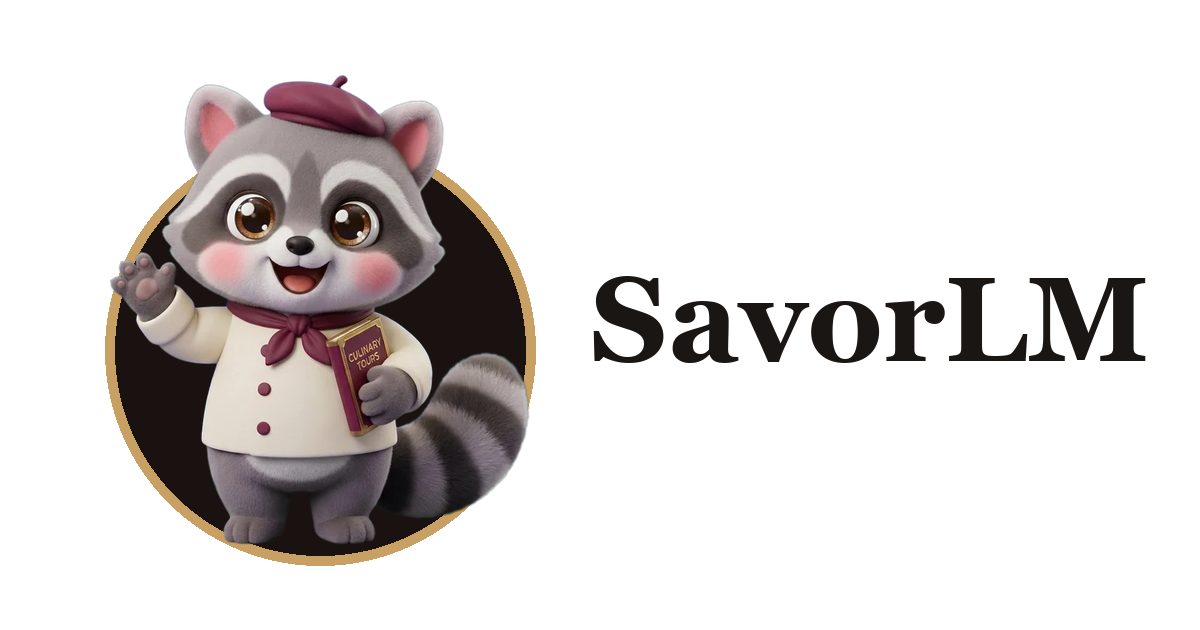
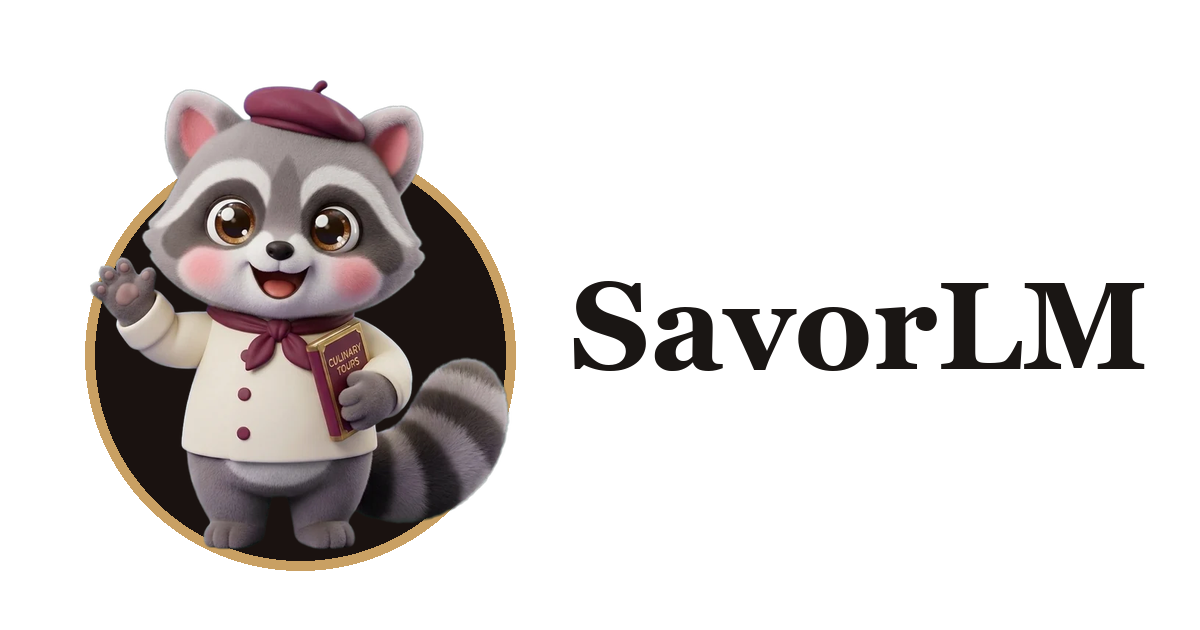
Photos and a spoken intro for every option, city link previews, 2-row ask box
- Options 2 to 5 get photos too: looked up by name + address on demand
  (Places photos only, cached), with thumbnails in the option rows
- Tapping an option makes Savvy introduce it (per-option intro)
- Each city URL has its own preview image, title and description
- The request box is a 2-row textarea (Enter sends, Shift+Enter newline)

Claude-Session: https://claude.ai/code/session_01MGsxGrBvBMeeqvs9iSWbpR

Changed region(s): [[0.0617, 0.1206, 0.9558, 0.9048]]

diff --git a/components/stop-card.tsx b/components/stop-card.tsx
@@ -2,7 +2,7 @@
 
 import { useState } from "react";
 import { Footprints, CarTaxiFront, MapPin, Phone, CalendarCheck, Star, ShieldCheck, Heart, ChevronRight } from "lucide-react";
-import type { Option, StopCard as Stop } from "@/lib/guide/scene";
+import { photoSrc, type Option, type StopCard as Stop } from "@/lib/guide/scene";
 
 export function Hop({ hop }: { hop: NonNullable<Stop["hop"]> }) {
   const Icon = hop.mode === "walk" ? Footprints : CarTaxiFront;
@@ -46,10 +46,11 @@ export function StopTicket({ stop, chosen, active, onSelect, onChoose }: { stop:
     <article className={`ticket rise overflow-hidden transition-[outline] ${active ? "outline-2 outline-offset-2 outline-gold" : ""}`}>
       <button type="button" onClick={onSelect} className="block w-full text-left" aria-label={`Show ${o.name} on the map`}>
         <div className="relative h-44 bg-sunk">
-          {o.placeId && !badPhoto[o.id] ? (
-            // Google-hosted photo via our redirect; nothing is stored.
+          {!badPhoto[o.id] ? (
+            // Google-hosted photo via our redirect (by place id, or looked up
+            // by name + address for the other options); nothing is stored.
             // eslint-disable-next-line @next/next/no-img-element
-            <img src={`/api/photo?pid=${encodeURIComponent(o.placeId)}`} alt="" loading="lazy" className="h-full w-full object-cover" onError={() => setBadPhoto((b) => ({ ...b, [o.id]: true }))} />
+            <img key={o.id} src={photoSrc(o)} alt="" loading="lazy" className="h-full w-full object-cover" onError={() => setBadPhoto((b) => ({ ...b, [o.id]: true }))} />
           ) : (
             <div className="grid h-full place-items-center bg-[radial-gradient(circle_at_50%_40%,#3a2a22,#1a1210)]">
               <MapPin className="size-10 text-gold-text" aria-hidden />
@@ -130,7 +131,13 @@ export function StopTicket({ stop, chosen, active, onSelect, onChoose }: { stop:
               {others.map(({ x, j }) => (
                 <li key={x.id} className="border-b border-line last:border-0">
                   <button type="button" onClick={() => onChoose(j)} className="flex w-full items-center gap-3 py-2.5 text-left transition hover:bg-[rgba(201,160,99,0.08)]" aria-label={`Make ${x.name} the pick for ${stop.role}`}>
-                    <span className="grid size-8 shrink-0 place-items-center rounded-full border-2 border-gold font-extrabold text-gold-text">{j + 1}</span>
+                    <span className="relative size-14 shrink-0 overflow-hidden rounded-xl border-2 border-gold bg-sunk">
+                      {!badPhoto[x.id] && (
+                        // eslint-disable-next-line @next/next/no-img-element
+                        <img src={photoSrc(x, 160)} alt="" loading="lazy" className="h-full w-full object-cover" onError={() => setBadPhoto((b) => ({ ...b, [x.id]: true }))} />
+                      )}
+                      <span className="absolute bottom-0.5 left-0.5 grid size-6 place-items-center rounded-full bg-[#120d0b] text-[0.8rem] font-extrabold text-[#f3d9ad]">{j + 1}</span>
+                    </span>
                     <span className="min-w-0 flex-1">
                       <span className="block font-display text-[1.1rem] font-bold leading-tight">{x.name}</span>
                       <span className="block text-[0.92rem] leading-snug text-ink-2">

diff --git a/lib/server/guide.ts b/lib/server/guide.ts
@@ -242,7 +242,7 @@ function rank(cands: Candidate[], checks: CheckId[]) {
 
 // ---- pick + narrate --------------------------------------------------------
 
-type PickOpt = { key: string; name: string; why: string; open_now: "open" | "closed" | "unknown"; hours: string; rating: string; phone: string; address: string; cuisine: string; price: string; source_urls: string[] };
+type PickOpt = { key: string; name: string; why: string; intro: string; open_now: "open" | "closed" | "unknown"; hours: string; rating: string; phone: string; address: string; cuisine: string; price: string; source_urls: string[] };
 type StopPick = { stop: number; line: string; options: PickOpt[] };
 type PickResult = { stops: StopPick[]; outro: string; title: string };
 
@@ -250,6 +250,7 @@ const OPT_PROPS = {
   key: { type: "STRING" },
   name: { type: "STRING" },
   why: { type: "STRING" },
+  intro: { type: "STRING" },
   open_now: { type: "STRING", enum: ["open", "closed", "unknown"] },
   hours: { type: "STRING" },
   rating: { type: "STRING" },
@@ -296,6 +297,7 @@ It is now ${nowIn(tz)} in ${cityName}.
 options: rank the candidates by key, best first: fit to the craving, budget and occasion first; then the user's checks (higher P(yes) is better); then how many independent sites named it (the city's favorites). Prefer places the evidence shows are open at the relevant time. Return 3 to 5 options when that many candidates fit (fewer only if the rest clearly don't fit). Each key at most once.
 line: what you say on arrival, walking the user through the TOP THREE options in order, max 65 words, spoken and natural, first person, like a friend who knows the city: lead with the first and why it wins, then the second and third in a phrase each ("If the line's too long, X is close by for ...; or Y for ..."). Use one concrete detail per place only if it is in the evidence. If 2 or more sites named a place you may call it a local favorite. Never invent dishes, prices or hours. ${NO_AWARDS} Never use an em-dash. No emoji.
 why (each option): max 14 words on what makes it great for this request, from the evidence. Same rules.
+intro (each option): what you would say if the user taps this option, max 30 words, spoken, first person, about this place alone (what it is, one detail from the evidence, and today's hours if known). Same rules.
 name: the venue's proper name (fix page-title noise).
 open_now: "open" or "closed" only if the evidence clearly states today's hours or its status now, else "unknown". hours: today's hours as stated, or "". rating: as stated with the review site the page names ("4.6 Google", "4.5 Yelp"), else ""; never a search engine or this app. phone, address: as stated, or "". cuisine: 1 to 3 words ("Texas barbecue"). price: "$" to "$$$$" if the evidence implies it, else "".
 source_urls: up to 2 URLs from that candidate's evidence that support what you said.
@@ -343,6 +345,7 @@ async function toOption(c: Candidate, pk: PickOpt | undefined, near: LatLng | nu
     id: keyOf(name, cityId),
     name,
     why: pk?.why ?? "",
+    intro: pk?.intro || `${name}${pk?.why ? `: ${pk.why.replace(/\.$/, "")}` : ""}.`,
     mentions: c.mentions,
     praisedBy: c.domains.slice(0, 6),
     cuisine: pk?.cuisine ?? "",

diff --git a/lib/server/places.ts b/lib/server/places.ts
@@ -31,21 +31,45 @@ export async function locate(text: string, near?: { lat: number; lng: number }):
   }).catch((e) => (console.warn("locate failed", (e as Error).message), null));
 }
 
-/** A photo URI for a place (Google-hosted, short-lived), or null. */
-export async function photoUri(placeId: string): Promise<string | null> {
+async function mediaUri(photoName: string, width: number): Promise<string | null> {
+  const m = await fetch(`https://places.googleapis.com/v1/${photoName}/media?maxWidthPx=${width}&skipHttpRedirect=true`, { headers: { "X-Goog-Api-Key": KEY() }, signal: AbortSignal.timeout(5000) });
+  if (!m.ok) return null;
+  return ((await m.json()) as { photoUri?: string }).photoUri ?? null;
+}
+
+/** A photo URI for a place id (Google-hosted), or null. Used for the top option, which already has an id. */
+export async function photoUri(placeId: string, width = 800): Promise<string | null> {
   if (!KEY() || !/^[A-Za-z0-9_-]{10,300}$/.test(placeId)) return null;
-  return cached(cacheKey("photo", placeId), 86400, async () => {
+  return cached(cacheKey("photo", placeId, width), 86400, async () => {
     const d = await fetch(`https://places.googleapis.com/v1/places/${placeId}`, {
       headers: { "X-Goog-Api-Key": KEY(), "X-Goog-FieldMask": "photos" },
       signal: AbortSignal.timeout(5000),
     });
     if (!d.ok) return null;
     const name = ((await d.json()) as { photos?: { name: string }[] }).photos?.[0]?.name;
-    if (!name) return null;
-    const m = await fetch(`https://places.googleapis.com/v1/${name}/media?maxWidthPx=800&skipHttpRedirect=true`, { headers: { "X-Goog-Api-Key": KEY() }, signal: AbortSignal.timeout(5000) });
-    if (!m.ok) return null;
-    return ((await m.json()) as { photoUri?: string }).photoUri ?? null;
+    return name ? mediaUri(name, width) : null;
   });
+}
+
+/**
+ * A photo for a place we only know by name and address (the other options):
+ * one Text Search asking for just the photo names (cached 30 days), then the
+ * photo itself. Fetched on demand when a card or thumbnail is shown.
+ */
+export async function photoByQuery(q: string, width = 800): Promise<string | null> {
+  if (!KEY()) return null;
+  const photoName = await cached(cacheKey("photoq", q.toLowerCase()), 30 * 86400, async () => {
+    const res = await fetch("https://places.googleapis.com/v1/places:searchText", {
+      method: "POST",
+      headers: { "Content-Type": "application/json", "X-Goog-Api-Key": KEY(), "X-Goog-FieldMask": "places.photos" },
+      body: JSON.stringify({ textQuery: q, maxResultCount: 1 }),
+      signal: AbortSignal.timeout(5000),
+    });
+    if (!res.ok) return null;
+    return ((await res.json()) as { places?: { photos?: { name: string }[] }[] }).places?.[0]?.photos?.[0]?.name ?? null;
+  });
+  if (!photoName) return null;
+  return cached(cacheKey("photoqm", photoName, width), 86400, () => mediaUri(photoName, width));
 }
 
 /** Address -> coordinates via the Geocoding API (10k free a month; cheaper than Places for alternates). */

diff --git a/components/guide-app.tsx b/components/guide-app.tsx
@@ -229,8 +229,17 @@ export function GuideApp({ initialCity }: { initialCity?: CityId }) {
       stopsRef.current = stopsRef.current.map((s, i) => (i === 0 ? s : { ...s, hop: hopBetween(pickOf(stopsRef.current[i - 1], ch), pickOf(s, ch)) }));
       setStops(stopsRef.current);
       focusStop(stopIdx);
+      // Savvy introduces the option the user picked (a new run: it replaces whatever he was saying).
+      const o = stopsRef.current[stopIdx]?.options[j];
+      if (o) {
+        audio?.stopVoice();
+        const id = ++run.current;
+        void say(o.intro || `${o.name}. ${o.why}`, j < 3 ? "point" : "talk", id, "warm").then(() => {
+          if (id === run.current) gesture("listen", "listen");
+        });
+      }
     },
-    [focusStop],
+    [focusStop, say, gesture],
   );
 
   const send = useCallback(
@@ -534,14 +543,22 @@ export function GuideApp({ initialCity }: { initialCity?: CityId }) {
           <label htmlFor="ask" className="kicker block px-1 text-gold-text">
             What are you craving?
           </label>
-          <div className="mt-2 flex items-center gap-2">
-            <input
+          <div className="mt-2 flex items-end gap-2">
+            <textarea
               id="ask"
+              rows={2}
               value={input}
               onChange={(e) => setInput(e.target.value)}
+              onKeyDown={(e) => {
+                // Enter sends, Shift+Enter adds a line.
+                if (e.key === "Enter" && !e.shiftKey && !e.nativeEvent.isComposing) {
+                  e.preventDefault();
+                  void send(input);
+                }
+              }}
               placeholder={busy ? "Savvy is on it..." : "Tacos, then a cocktail bar..."}
               maxLength={500}
-              className="min-w-0 flex-1 rounded-xl border-2 border-line bg-sunk px-3 py-3 text-[1.05rem] font-bold text-ink placeholder:text-ink-2 focus:border-gold"
+              className="min-h-[4.6rem] min-w-0 flex-1 resize-y rounded-xl border-2 border-line bg-sunk px-3 py-2.5 text-[1.05rem] font-bold leading-snug text-ink placeholder:text-ink-2 focus:border-gold"
             />
             <button type="submit" disabled={!input.trim()} className="btn btn-primary size-13 shrink-0 p-0 disabled:opacity-60" aria-label="Send to Savvy">
               <Send className="size-5" />

diff --git a/app/api/photo/route.ts b/app/api/photo/route.ts
@@ -1,15 +1,18 @@
 import { guard } from "@/lib/server/guard";
-import { photoUri } from "@/lib/server/places";
+import { photoByQuery, photoUri } from "@/lib/server/places";
 
-
-// GET /api/photo?pid=<Google place id> -> 302 to a Google-hosted photo.
-// The browser caches the redirect for a day; SavorLM stores no photos.
+// GET /api/photo?pid=<Google place id>  or  ?q=<name, address>  [&w=160|800]
+// -> 302 to a Google-hosted photo. The browser caches the redirect for a day;
+// SavorLM stores no photos.
 export async function GET(req: Request) {
-  const pid = new URL(req.url).searchParams.get("pid") ?? "";
-  if (!/^[A-Za-z0-9_-]{10,300}$/.test(pid)) return new Response("Bad request", { status: 400 });
+  const sp = new URL(req.url).searchParams;
+  const pid = sp.get("pid") ?? "";
+  const q = (sp.get("q") ?? "").trim();
+  const width = sp.get("w") === "160" ? 160 : 800;
+  if (pid ? !/^[A-Za-z0-9_-]{10,300}$/.test(pid) : q.length < 3 || q.length > 200) return new Response("Bad request", { status: 400 });
   const g = await guard(req, "photo");
   if (!g.ok) return new Response(null, { status: g.status });
-  const uri = await photoUri(pid).catch(() => null);
+  const uri = await (pid ? photoUri(pid, width) : photoByQuery(q, width)).catch(() => null);
   if (!uri) return new Response(null, { status: 404, headers: { "Cache-Control": "public, max-age=3600" } });
   return new Response(null, { status: 302, headers: { Location: uri, "Cache-Control": "public, max-age=86400" } });
 }

diff --git a/app/[city]/page.tsx b/app/[city]/page.tsx
@@ -17,11 +17,16 @@ export function generateStaticParams() {
 export async function generateMetadata({ params }: PageProps<"/[city]">): Promise<Metadata> {
   const id = cityBySlug((await params).city);
   if (!id) return {};
-  const name = CITIES[id].name;
+  const { name, slug } = CITIES[id];
+  const title = `${NAME} ${name}`;
+  const description = `${TAGLINE}. The places locals love in ${name}, from a quick salad to a big night out, planned on the map by Savvy with live hours.`;
+  const image = { url: `/og/${slug}.jpg`, width: 1200, height: 630, alt: `${NAME} ${name}: Savvy the raccoon food guide` };
   return {
-    title: { absolute: `${NAME} ${name}: ${TAGLINE}` },
-    description: `The places locals love in ${name}, from a quick lunch to a big night out. Ask Savvy by voice or text and he plans it on the map with live hours.`,
-    alternates: { canonical: `/${CITIES[id].slug}` },
+    title: { absolute: `${title}: ${TAGLINE}` },
+    description,
+    alternates: { canonical: `/${slug}` },
+    openGraph: { title, description, url: `/${slug}`, siteName: NAME, type: "website", images: [image] },
+    twitter: { card: "summary_large_image", title, description, images: [image] },
   };
 }
 

diff --git a/lib/guide/scene.ts b/lib/guide/scene.ts
@@ -15,6 +15,8 @@ export type Option = {
   name: string;
   /** Short reason it made the list (max ~14 words). */
   why: string;
+  /** What Savvy says when the user picks this option by hand (max ~30 words). */
+  intro: string;
   /** Independent best-of sites that named it (web consensus), and which ones. */
   mentions: number;
   praisedBy: string[];
@@ -34,6 +36,12 @@ export type Option = {
   badges: Badge[];
   sources: Source[];
 };
+
+/** Photo URL for an option: by place id when known, else looked up by name + address on demand. */
+export function photoSrc(o: Pick<Option, "placeId" | "name" | "address">, w: 160 | 800 = 800): string {
+  if (o.placeId) return `/api/photo?pid=${encodeURIComponent(o.placeId)}${w === 160 ? "&w=160" : ""}`;
+  return `/api/photo?q=${encodeURIComponent(`${o.name}, ${o.address}`.slice(0, 200))}${w === 160 ? "&w=160" : ""}`;
+}
 
 export type StopCard = {
   index: number;

diff --git a/art/og.py b/art/og.py
@@ -1,0 +1,32 @@
+# Link-preview images (1200x630): the root one (Savvy + wordmark) and one per
+# city (Savvy + the city's food badge + "SavorLM" and the city name).
+import json, re
+from PIL import Image, ImageDraw, ImageFont
+W, H = 1200, 630
+FONT = "/System/Library/Fonts/Supplemental/Georgia Bold.ttf"
+INK, GOLD, ESPRESSO = (26, 22, 20), (201, 160, 99), (26, 18, 16)
+src = open("../lib/cities.ts").read()
+cities = re.findall(r'\n  \w+: \{ name: "([^"]+)", slug: "([^"]+)"', src)
+
+def base():
+    im = Image.new("RGB", (W, H), "white")
+    d = ImageDraw.Draw(im)
+    cx, cy = 300, 335
+    d.ellipse((cx - 215, cy - 195, cx + 215, cy + 235), fill=ESPRESSO, outline=GOLD, width=10)
+    sv = Image.open("../public/savvy/wave.webp").convert("RGBA").resize((470, 470), Image.LANCZOS)
+    im.paste(sv, (cx - 235, cy - 255), sv)
+    return im, d
+
+im, d = base()
+d.text((570, 255), "SavorLM", font=ImageFont.truetype(FONT, 124), fill=INK)
+im.save("../app/opengraph-image.png"); im.save("../app/twitter-image.png")
+
+for name, slug in cities:
+    im, d = base()
+    badge = Image.open(f"../public/cities/{slug}.webp").convert("RGBA").resize((190, 190), Image.LANCZOS)
+    im.paste(badge, (575, 95), badge)
+    d.text((575, 310), "SavorLM", font=ImageFont.truetype(FONT, 104), fill=INK)
+    size = 64 if len(name) < 16 else 50
+    d.text((580, 440), name, font=ImageFont.truetype(FONT, size), fill=(122, 85, 32))
+    im.save(f"../public/og/{slug}.jpg", quality=86, optimize=True)
+print("og", len(cities))

diff --git a/CLAUDE.md b/CLAUDE.md
@@ -11,6 +11,9 @@ SavorLM v2: **Savvy**, a cute plush raccoon food guide (beret, chef jacket, guid
 - **One URL per city**: `savorlm.com/<slug>` (`app/[city]/page.tsx`, prerendered for all 21 via `generateStaticParams`; unknown slug = `notFound()` because `dynamicParams` is unavailable with Cache Components; `export const instant = false` since the picker switches cities with `pushState`, not router navigation). Short forms (`nyc`, `sf`, `la`, `dc`, `philly`, `vegas`, `scottsdale`, ...) are permanent redirects from `SLUG_ALIASES` in `next.config.ts`. `app/sitemap.ts` + `app/robots.ts` list them.
 - **Landing = city chooser** (BikeSim-style, William 2026-11-06): `/` opens "Where are we eating?" with the time-zone city as a wide "Near you" tile, then every city by region, each with a food badge (`public/cities/<slug>.webp`, made by `art/cities.py`: plush style, cream felt disc, never blue because of the chroma key). The map shows the US with badge pins; tapping a tile or pin goes to that city's URL. "All cities" goes back.
 - **Savvy narrates the top three** options per stop in one line (max 65 words); a "Stop talking" button under his bubble silences him for the rest of that answer (captions continue), the speaker button mutes for good.
+- **Every option has a photo and a voice.** Option photos come from `/api/photo?pid=` (top option, place id) or `?q=name, address` (the rest: a Text Search asking only for `places.photos`, cached 30 days, then the media call), fetched lazily when a card or row thumbnail renders. Each option has a spoken `intro`; tapping an option makes Savvy say it (a new run replaces whatever he was saying).
+- **Link previews**: home uses `app/opengraph-image.png` (Savvy + wordmark); each city page sets its own `og:image` / `twitter:image` to `public/og/<slug>.jpg` (Savvy + the city badge + "SavorLM" + city name, rendered by `art/og.py`), title "SavorLM <City>", description = tagline + a city line. Re-run `cd art && python3 og.py` after changing Savvy, badges or cities.
+- **Request box** is a 2-row textarea (William): Enter sends, Shift+Enter adds a line.
 - **No 3D map** (removed 2026-11-06, William: unnecessary). The browser key is restricted to `maps-backend` only and `tile.googleapis.com` is disabled in `savorlm-app`.
 - **US cities only** (`lib/cities.ts`): NYC, Boston, Philadelphia, DC, Atlanta, Nashville, New Orleans, Miami, Austin, Houston, Dallas, Chicago, Minneapolis, Denver, Phoenix & Scottsdale, Las Vegas, SF, LA, San Diego, Seattle, Portland. Grouped by region in the picker.
 
@@ -47,7 +50,7 @@ Scene events (`lib/guide/scene.ts`): `say`, `fly`, `stop` (StopCard = role, line
 
 ### The map (`components/map-view.tsx`)
 - Styled 2D raster "parchment" map only (business POIs hidden, no mapId so styles apply), custom `OverlayView` pins: numbered burgundy medallions per stop (active one gold), small cream medallions `2.2, 2.3...` for the active stop's other options (labels on hover), city badge pins on the landing, dashed route, eased center+zoom "flights".
-- Pricing (2026-11-03 list): Dynamic Maps $7/1k, 10k free/mo; Places Photos Enterprise (1k free); Text Search Pro 5k free; Geocoding 10k free. **Hard daily quota caps** (gcloud beta quotas; needed `--allow-high-percentage-quota-decrease --allow-quota-decrease-below-usage`): map loads 300, Places GetPlace 30, GetPhotoMedia 30, SearchText 150, Geocoding 300. Over a cap the UI degrades (no photo, geocoded pin), never a bill.
+- Pricing (2026-11-03 list): Dynamic Maps $7/1k, 10k free/mo; Places Photos Enterprise (1k free); Text Search Pro 5k free; Geocoding 10k free. **Hard daily quota caps** (gcloud beta quotas; needed `--allow-high-percentage-quota-decrease --allow-quota-decrease-below-usage`): map loads 300, Places GetPlace 30, GetPhotoMedia 100 (raised 2026-11-06 so every option has a photo: ~2k/mo over the 1k free tier at most, about $14), SearchText 150, Geocoding 300. Over a cap the UI degrades (no photo, geocoded pin), never a bill.
 
 ### Savvy (the rig)
 - Art: Gemini image from `art/candidates/savvy-ref.png` (chibi plush raccoon with beret; William asked for cuter on 2026-11-06). 12 poses + edit-variants talk2, talk-blink, listen-blink, wave2, dance2 sharing their base crop box (`art/key.py`). Served from `public/savvy/` (renamed from /guide/ to bust caches).
